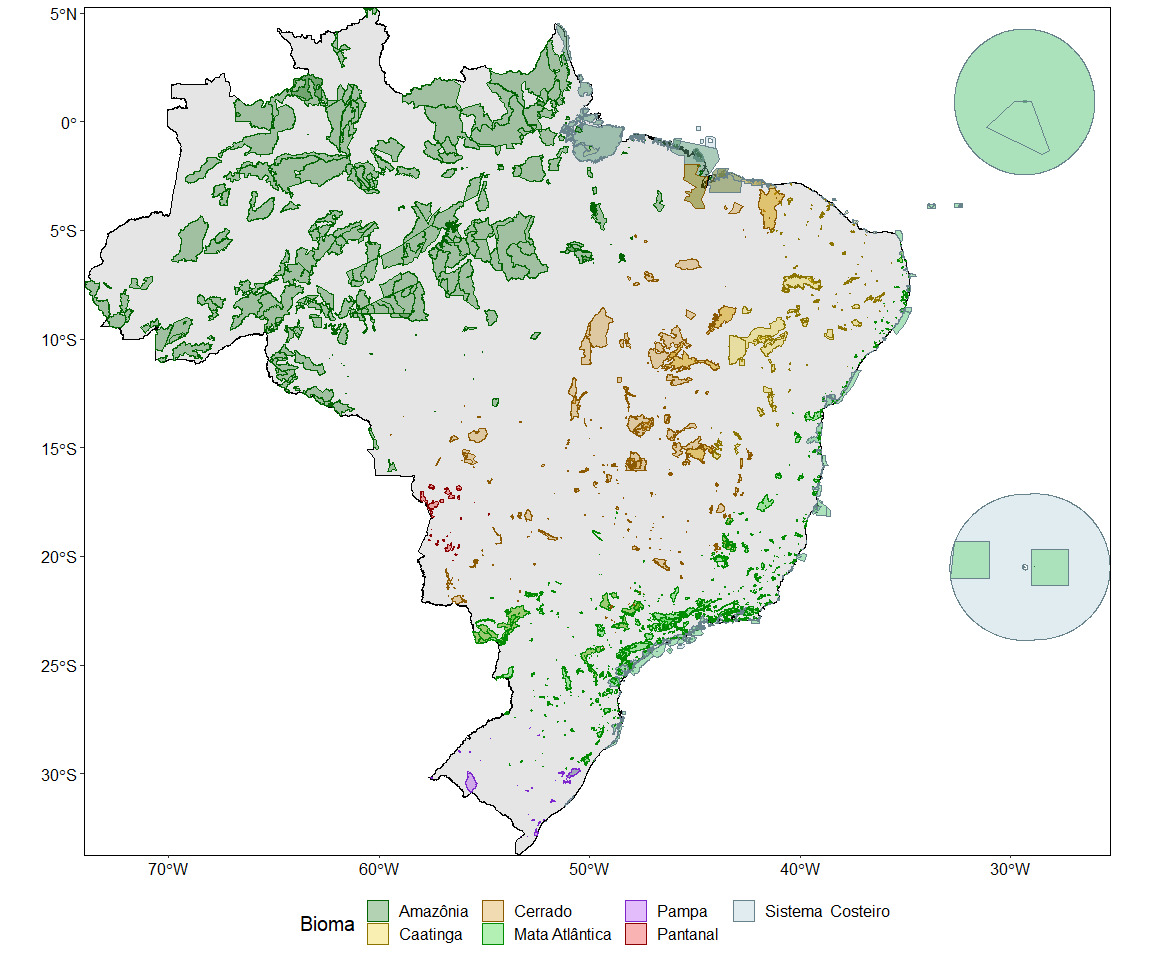
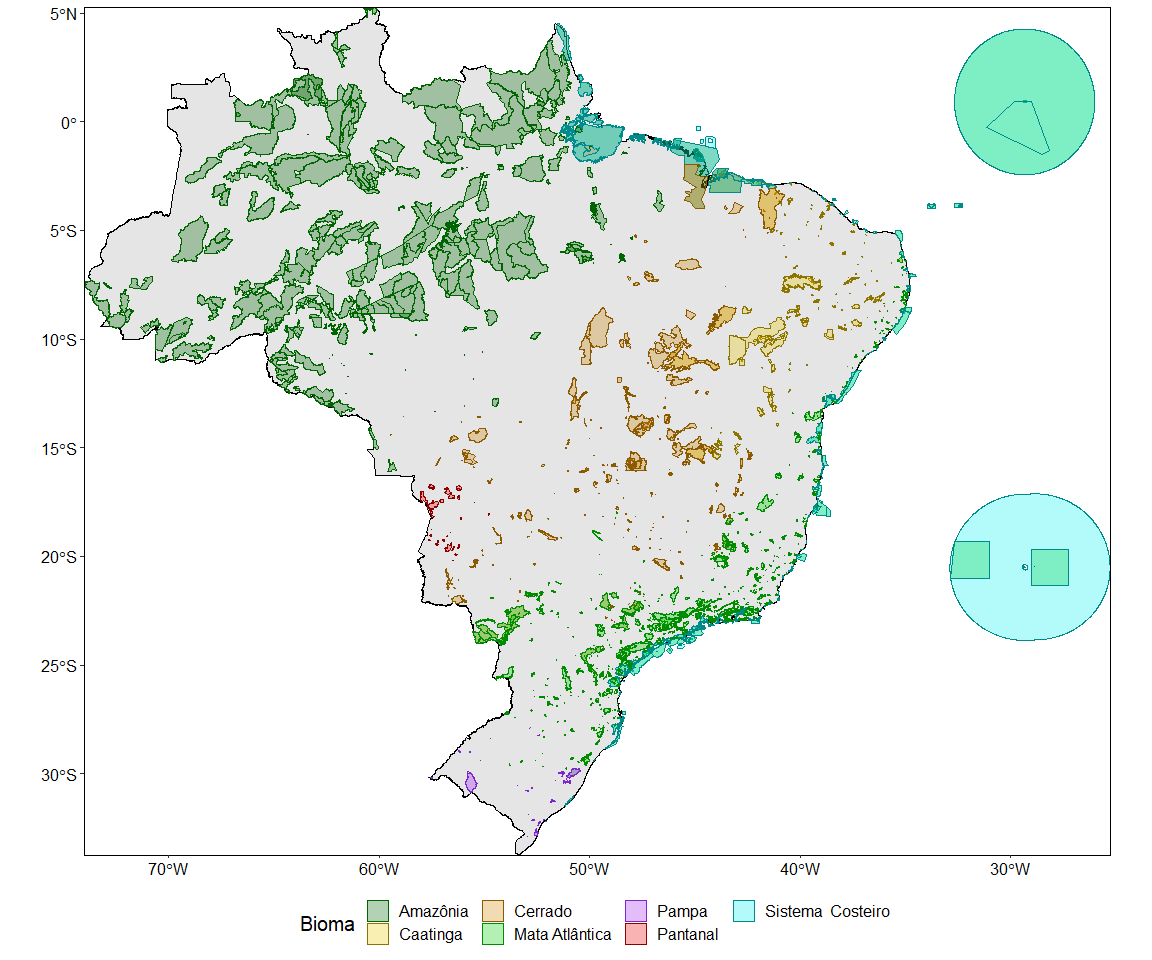
Add files via upload

diff --git a/README.md b/README.md
@@ -3,7 +3,20 @@ Unidades de conservação em território brasileiro
 Edson Nilton de Moura SIlva Júnior
 2024-01-24
 
-
+<style>
+body {
+text-align: justify;
+font-size: 20px}
+blockquote {
+  background-color: #FAEFA6;
+  padding: 10px;
+  font-size: 14.5px
+}
+</style>
+<script>
+  addClassKlippyTo("pre.r, pre.markdown");
+  addKlippy('right', 'top', 'auto', '1', 'Copy code', 'Copied!');
+</script>
 
 # **Pacotes**
 
@@ -360,8 +373,8 @@ ucs %>%
   ggplot() +
   geom_sf(data = br, color = "black") +
   geom_sf(aes(fill = Bioma, color = Bioma), alpha = 0.3) +
-  scale_fill_manual(values = c("darkgreen", "gold2", "orange3", "green3", "purple", "red2", "lightblue3")) +
-  scale_color_manual(values = c("darkgreen", "gold4", "orange4", "green4", "purple3", "red4", "lightblue4")) +
+  scale_fill_manual(values = c("darkgreen", "gold2", "orange3", "green3", "purple", "red2", "cyan2")) +
+  scale_color_manual(values = c("darkgreen", "gold4", "orange4", "green4", "purple3", "red4", "cyan4")) +
   scale_x_continuous(expand = c(0, 0)) +
   scale_y_continuous(expand = c(0, 0)) +
   theme(axis.text = element_text(color = "black", size = 12),
